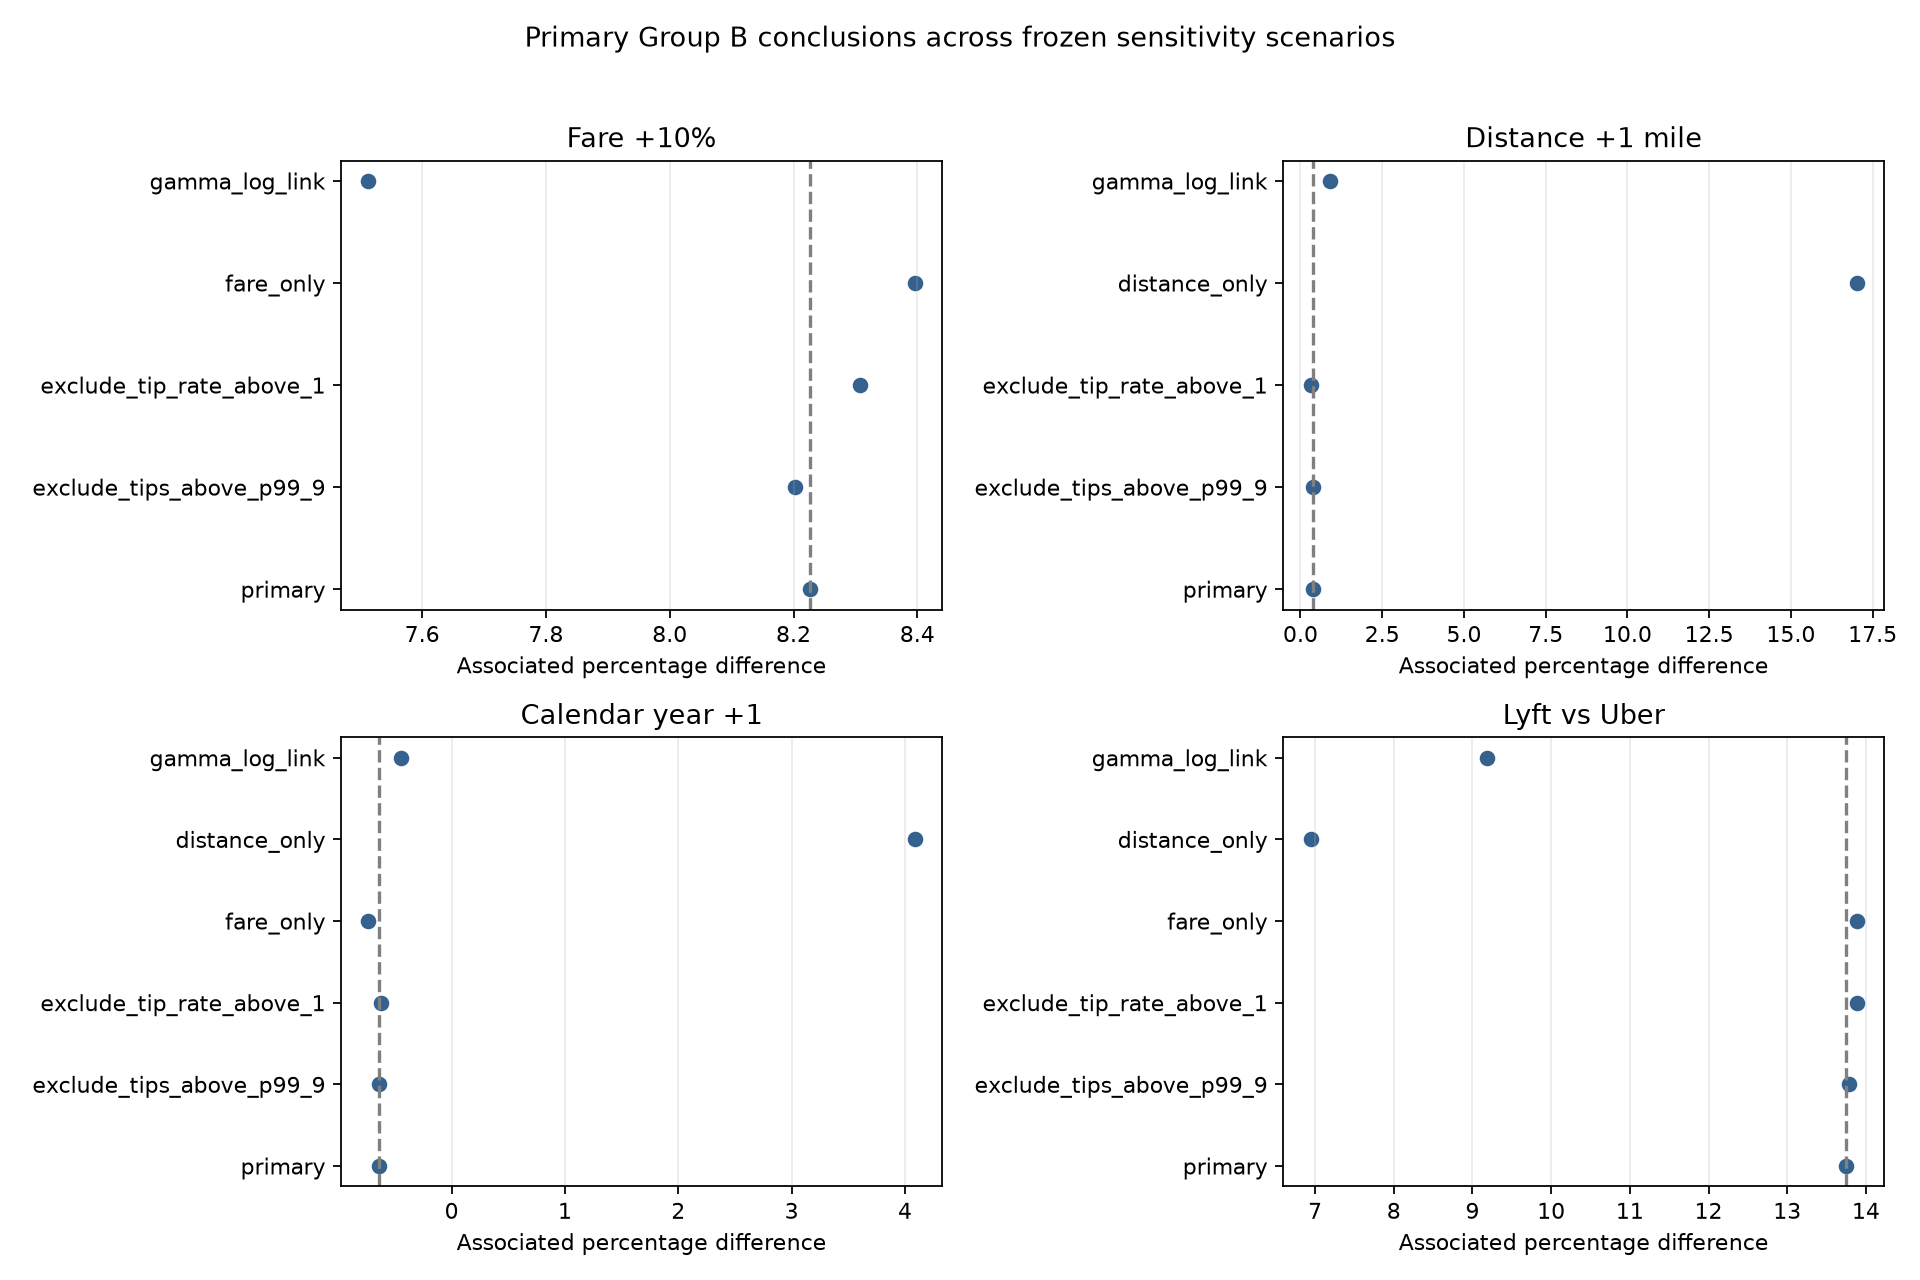
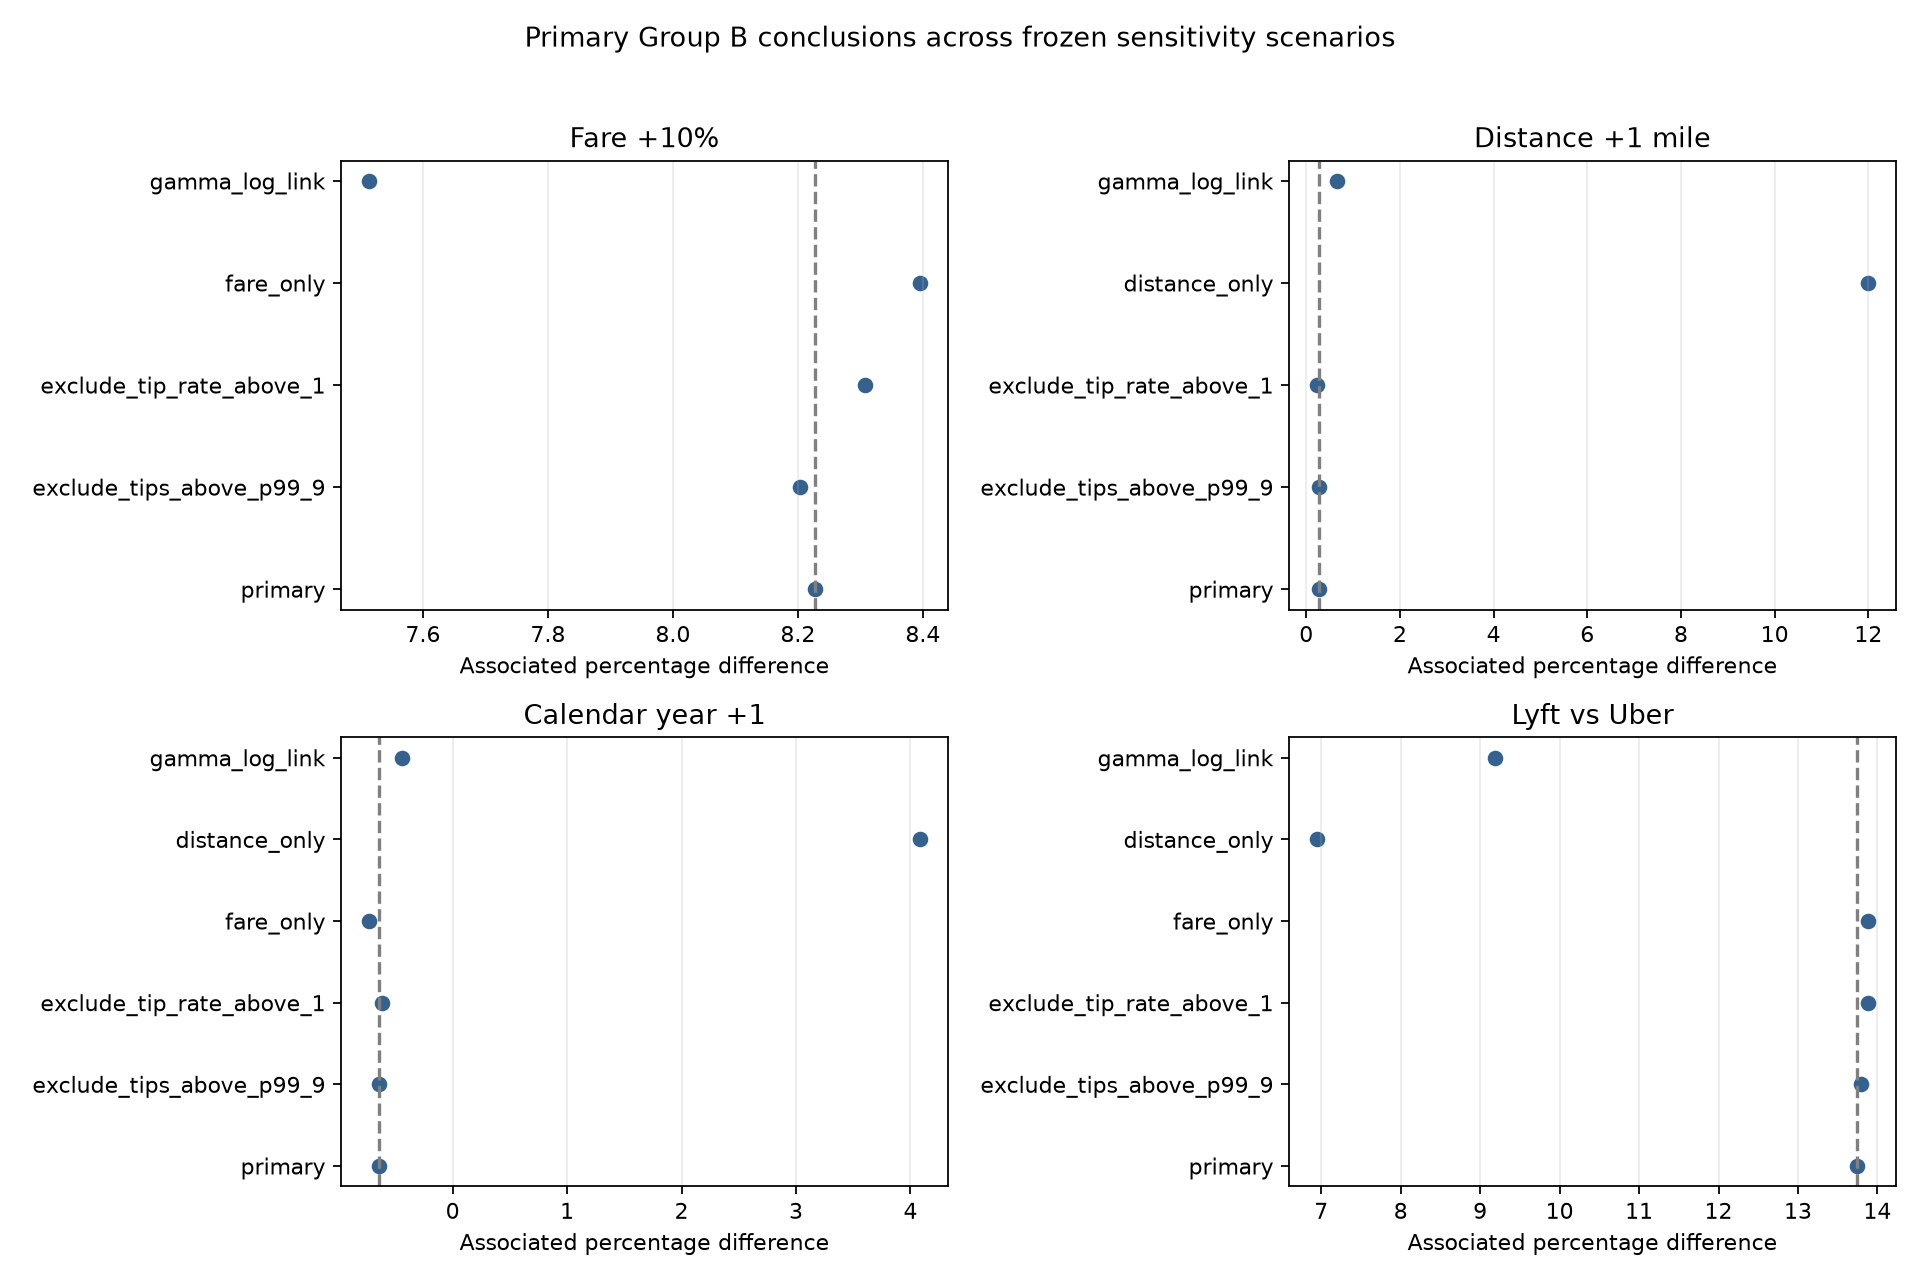
fix: align B-Q4 distance effect with frozen B-Q2 definition

diff --git a/src/group_b/sensitivity.py b/src/group_b/sensitivity.py
@@ -82,9 +82,19 @@ def _percent(coefficient: float) -> float:
     return 100.0 * math.expm1(coefficient)
 
 
-def _distance_effect(coefficient: float, miles: np.ndarray) -> float:
+def _distance_effect(
+    result: Any,
+    coefficient: float,
+    frame: pd.DataFrame,
+) -> float:
+    miles = frame["trip_miles"].to_numpy(dtype=float)
     delta = np.log1p(miles + 1.0) - np.log1p(miles)
-    return 100.0 * float(np.mean(np.expm1(coefficient * delta)))
+    fitted = np.asarray(result.predict(frame), dtype=float)
+    outcome = str(result.model.endog_names)
+    weights = np.exp(fitted) if outcome.startswith("log_") else fitted
+    if not np.isfinite(weights).all() or (weights <= 0).any():
+        raise ValueError("Distance-standardization weights must be finite and positive")
+    return 100.0 * float(np.average(np.expm1(coefficient * delta), weights=weights))
 
 
 def extract_core_effects(result: Any, frame: pd.DataFrame) -> dict[str, float | None]:
@@ -113,12 +123,11 @@ def extract_core_effects(result: Any, frame: pd.DataFrame) -> dict[str, float | 
 
     if "log1p_miles" in names:
         estimate, low, high = _interval(result, "log1p_miles")
-        miles = frame["trip_miles"].to_numpy(dtype=float)
         output.update(
             {
-                "distance_plus_one_mile_percent": _distance_effect(estimate, miles),
-                "distance_ci_low": _distance_effect(low, miles),
-                "distance_ci_high": _distance_effect(high, miles),
+                "distance_plus_one_mile_percent": _distance_effect(result, estimate, frame),
+                "distance_ci_low": _distance_effect(result, low, frame),
+                "distance_ci_high": _distance_effect(result, high, frame),
             }
         )
     else:

diff --git a/tests/group_b/test_sensitivity.py b/tests/group_b/test_sensitivity.py
@@ -27,7 +27,12 @@ def test_frozen_sensitivity_formulas() -> None:
     assert "log_fare" not in TIP_RATE_FORMULA
 
 
+class FakeModel:
+    endog_names = "log_tips"
+
+
 class FakeResult:
+    model = FakeModel()
     params = pd.Series(
         {
             "log_fare": 0.8,
@@ -36,6 +41,9 @@ class FakeResult:
             PLATFORM_TERM: math.log(1.1),
         }
     )
+
+    def predict(self, frame: pd.DataFrame) -> np.ndarray:
+        return np.log(np.linspace(3.0, 6.0, len(frame)))
 
     def conf_int(self) -> pd.DataFrame:
         return pd.DataFrame(
@@ -51,7 +59,16 @@ def test_core_effect_extraction() -> None:
     effects = extract_core_effects(FakeResult(), frame)
 
     assert effects["fare_10_percent"] > 0
-    assert effects["distance_plus_one_mile_percent"] > 0
+    miles = frame["trip_miles"].to_numpy(dtype=float)
+    delta = np.log1p(miles + 1.0) - np.log1p(miles)
+    expected = 100.0 * np.average(
+        np.expm1(0.1 * delta),
+        weights=np.linspace(3.0, 6.0, len(frame)),
+    )
+    assert math.isclose(
+        effects["distance_plus_one_mile_percent"],
+        expected,
+    )
     assert effects["one_year_percent"] < 0
     assert math.isclose(effects["lyft_vs_uber_percent"], 10.0)
 

diff --git a/docs/group_b/bq4_sensitivity_protocol.md b/docs/group_b/bq4_sensitivity_protocol.md
@@ -25,7 +25,7 @@ The execution quality gate checks completeness, finite estimates, row reconcilia
 ## Reported effects
 
 - percentage difference for a 10% fare increase;
-- average percentage difference after adding one trip mile;
+- standardized percentage difference in the mean retransformed prediction after adding one trip mile, using the frozen B-Q2 definition;
 - percentage difference for one calendar year;
 - Lyft-versus-Uber percentage difference.
 
